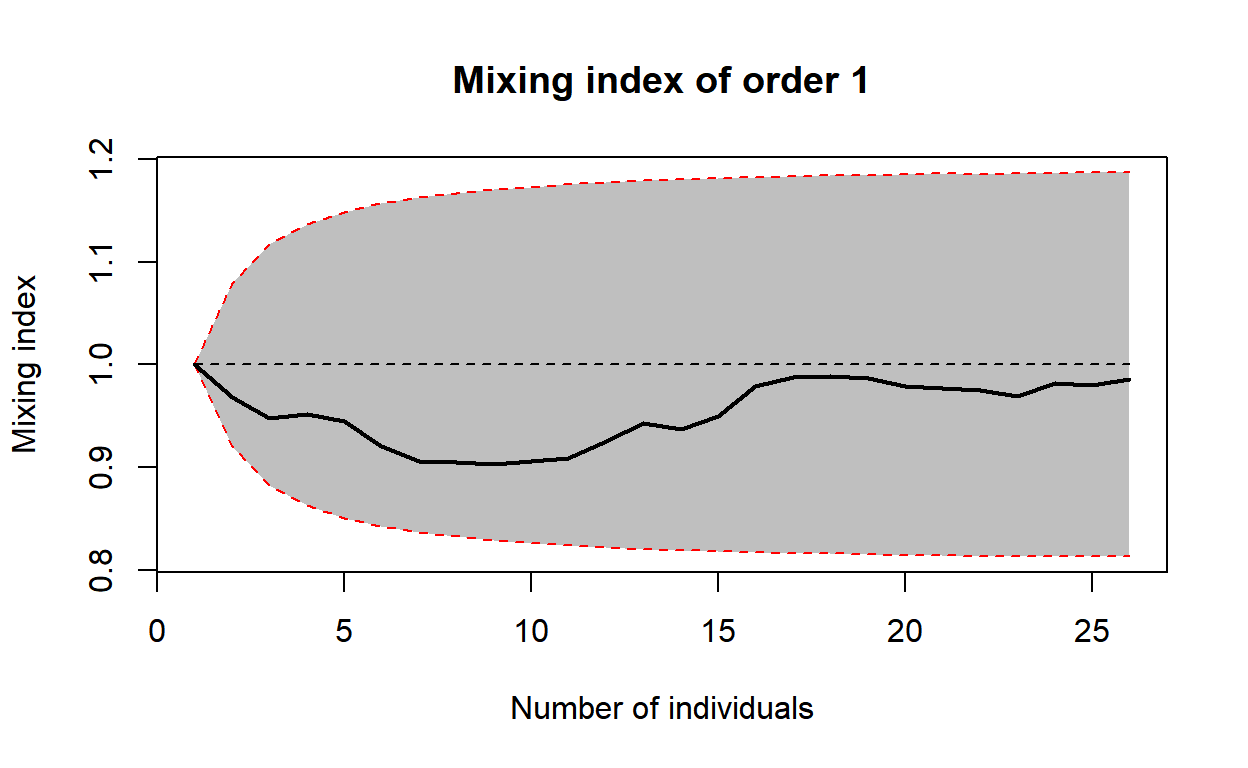
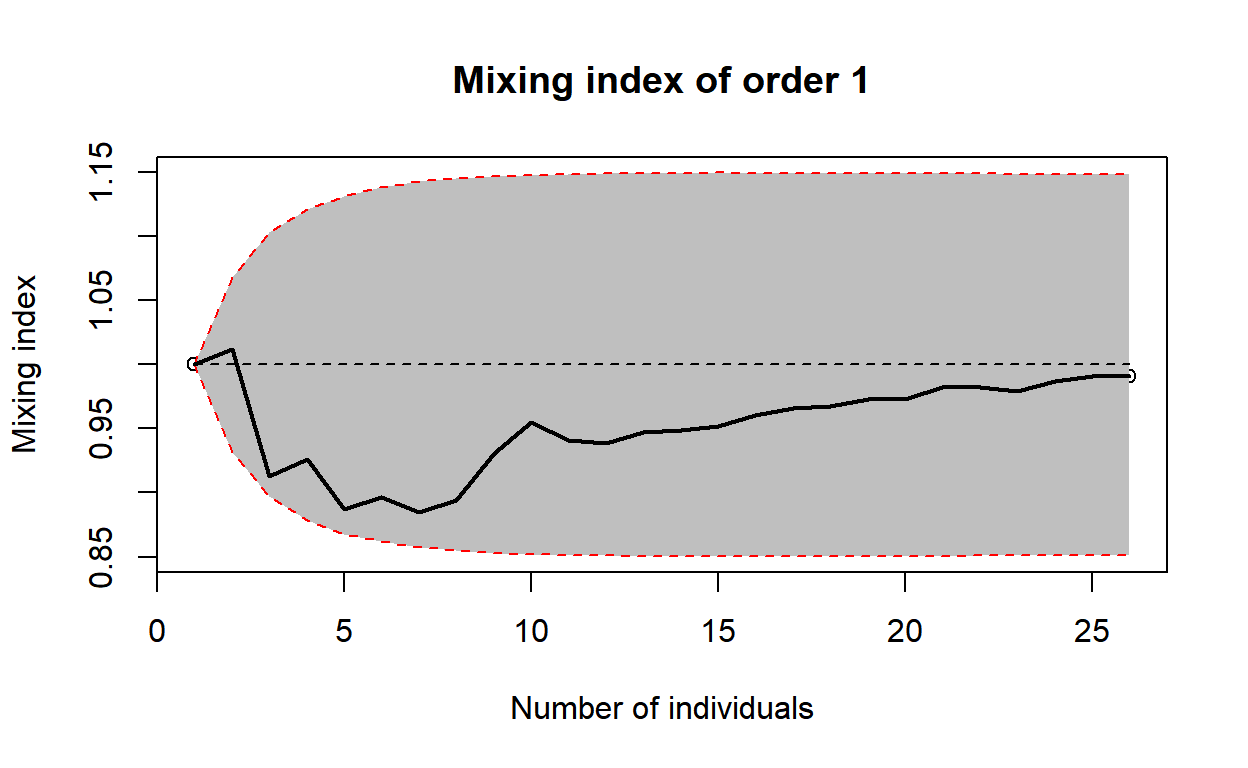
v. 0.3-3

diff --git a/docs/rd.html b/docs/rd.html
@@ -6,7 +6,7 @@
 
   
   
-  <title>SpatDiv Documentation</title>
+  <title>SpatDiv</title>
 
     <script src="rd_files/jquery-1.11.3/jquery.min.js"></script>
   <link href="rd_files/bootstrap-3.3.2/css/bootstrap.min.css" rel="stylesheet" />
@@ -45,7 +45,7 @@
           <span class="icon-bar"></span>
         </button>
                 <a href="index.html" class="navbar-brand page-scroll">
-        SpatDiv Documentation - Spatially Explicit Measures of Diversity
+        SpatDiv - Spatially Explicit Measures of Diversity
         </a>
       </div>
             <nav class="collapse navbar-collapse" role="navigation">
@@ -57,7 +57,7 @@
 <a href='rd.html'>Package Ref</a>
 </li>
 <li>
-<a href='https://github.com/ericmarcon/SpatDiv'>Github <i class='fa fa-github'></i></a>
+<a href='https://github.com/ericmarcon/SpatDiv'>Github<i class='fa fa-github'></i></a>
 </li>
         </ul>
       </nav>
@@ -110,7 +110,7 @@ Spatially Explicit Measures of Diversity
 <strong>Authors:</strong> <a href="mailto:eric.marcon@ecofog.gf">Eric Marcon</a> [aut, cre]
 </p>
 <p>
-<strong>Version:</strong> 0.3-0
+<strong>Version:</strong> 0.3-2
 </p>
 <p>
 <strong>License:</strong> GNU General Public License
@@ -125,13 +125,13 @@ Measures of diversity of spatialized communities, that can be considered as gene
 Depends
 </h4>
 <p>
-R (&gt;= 3.3.0), entropart, Rcpp (&gt;= 0.12.14)
+R (&gt;= 3.3.0), Rcpp (&gt;= 0.12.14), entropart, ggplot2
 </p>
 <h4>
 Imports
 </h4>
 <p>
-automap, dbmss, iNEXT, parallel, RcppParallel, sp, spatstat
+automap, dbmss, graphics, iNEXT, parallel, RcppParallel, sp, spatstat, stats, utils
 </p>
 <h4>
 Suggests
@@ -349,6 +349,11 @@ accum &lt;- EntAccum(spCommunity, q.seq=1)</code></pre>
 <pre><code>## ===========================================================================</code></pre>
 <pre class="r"><code>plot(accum, q=1)</code></pre>
 <p><img src="rd_files/figure-html/EntAccum_id_3-1.png" width="624" /></p>
+<pre class="r"><code># along distance
+accumR &lt;- EntAccum(spCommunity, q.seq=1, r.seq=seq(0, .5, .05))</code></pre>
+<pre><code>## ===========================================================================</code></pre>
+<pre class="r"><code>plot(accumR, q=1)</code></pre>
+<p><img src="rd_files/figure-html/EntAccum_id_3-2.png" width="624" /></p>
 </div>
 <div id="mixing" class="section level2">
 <h2>Mixing</h2>
@@ -551,7 +556,13 @@ The color of the borders of the confidence envelope.
 <h4>
 Examples
 </h4>
-<pre class="r"><code>#TODO</code></pre>
+<pre class="r"><code># Generate a random community
+spCommunity &lt;- rSpCommunity(1, size=50, S=3)
+# Calculate mixing indices of order 0 and 1
+accum &lt;- Mixing(spCommunity, q.seq=c(0,1))</code></pre>
+<pre><code>## ======================================================================================================================================================</code></pre>
+<pre class="r"><code>plot(accum, q=0)</code></pre>
+<p><img src="rd_files/figure-html/plot.Accumulation_id_5-1.png" width="624" /></p>
 </div>
 </div>
 <div id="maps" class="section level1">
@@ -869,7 +880,7 @@ Details
 Tsallis (HCDT) Entropy of a vector of individuals
 </h3>
 <p class="rd-p">
-Calculates the HCDT, also known as Tsallis entropy of order <span class="math inline"><em>q</em></span> of a probability vector.
+Calculates the HCDT, also known as Tsallis entropy of order <span class="math inline"><em>q</em></span> of a vector of individuals.
 </p>
 <h4>
 Usage
@@ -927,7 +938,10 @@ Tsallis (Havrda and Charvat, 1967; Daroczy, 1970; Tsallis, 1988) generalized ent
 <h4>
 Examples
 </h4>
-<pre class="r"><code>#TODO</code></pre>
+<pre class="r"><code>SpeciesList &lt;- as.character(Paracou6$marks$PointType)
+Tsallis(SpeciesList)</code></pre>
+<pre><code>## ChaoWangJost 
+##     4.678361</code></pre>
 </div>
 <div id="tsallis.factor" class="section level2">
 <h2>Tsallis.factor</h2>
@@ -936,7 +950,7 @@ Examples
 Tsallis (HCDT) Entropy of a vector of individuals
 </h3>
 <p class="rd-p">
-Calculates the HCDT, also known as Tsallis entropy of order <span class="math inline"><em>q</em></span> of a probability vector.
+Calculates the HCDT, also known as Tsallis entropy of order <span class="math inline"><em>q</em></span> of a vector of individuals
 </p>
 <h4>
 Usage
@@ -994,7 +1008,9 @@ Tsallis (Havrda and Charvat, 1967; Daroczy, 1970; Tsallis, 1988) generalized ent
 <h4>
 Examples
 </h4>
-<pre class="r"><code>#TODO</code></pre>
+<pre class="r"><code>Tsallis(Paracou6$marks$PointType)</code></pre>
+<pre><code>## ChaoWangJost 
+##     4.678361</code></pre>
 </div>
 <div id="tsallis.wmppp" class="section level2">
 <h2>Tsallis.wmppp</h2>
@@ -1003,7 +1019,7 @@ Examples
 Tsallis (HCDT) Entropy of a spatialized community
 </h3>
 <p class="rd-p">
-Calculates the HCDT, also known as Tsallis entropy of order <span class="math inline"><em>q</em></span> of a probability vector.
+Calculates the HCDT, also known as Tsallis entropy of order <span class="math inline"><em>q</em></span> of a spatialized community.
 </p>
 <h4>
 Usage
@@ -1061,7 +1077,9 @@ Tsallis (Havrda and Charvat, 1967; Daroczy, 1970; Tsallis, 1988) generalized ent
 <h4>
 Examples
 </h4>
-<pre class="r"><code>#TODO</code></pre>
+<pre class="r"><code>Tsallis(Paracou6)</code></pre>
+<pre><code>## ChaoWangJost 
+##     4.678361</code></pre>
 </div>
 <div id="diversity.character" class="section level2">
 <h2>Diversity.character</h2>
@@ -1122,7 +1140,10 @@ A named number equal to the calculated diversity. The name is that of the bias c
 <h4>
 Examples
 </h4>
-<pre class="r"><code>#TODO</code></pre>
+<pre class="r"><code>SpeciesList &lt;- as.character(Paracou6$marks$PointType)
+Diversity(SpeciesList)</code></pre>
+<pre><code>## ChaoWangJost 
+##     107.5936</code></pre>
 </div>
 <div id="diversity.factor" class="section level2">
 <h2>Diversity.factor</h2>
@@ -1183,7 +1204,9 @@ A named number equal to the calculated diversity. The name is that of the bias c
 <h4>
 Examples
 </h4>
-<pre class="r"><code>#TODO</code></pre>
+<pre class="r"><code>Diversity(Paracou6$marks$PointType)</code></pre>
+<pre><code>## ChaoWangJost 
+##     107.5936</code></pre>
 </div>
 <div id="diversity.wmppp" class="section level2">
 <h2>Diversity.wmppp</h2>
@@ -1244,7 +1267,9 @@ A named number equal to the calculated diversity. The name is that of the bias c
 <h4>
 Examples
 </h4>
-<pre class="r"><code>#TODO</code></pre>
+<pre class="r"><code>Diversity(Paracou6)</code></pre>
+<pre><code>## ChaoWangJost 
+##     107.5936</code></pre>
 </div>
 </div>
 <div id="utilities" class="section level1">

diff --git a/docs/index.html b/docs/index.html
@@ -57,7 +57,7 @@
 <a href='rd.html'>Package Ref</a>
 </li>
 <li>
-<a href='https://github.com/EricMarcon/SpatDiv'>Github <i class='fa fa-github'></i></a>
+<a href='https://github.com/EricMarcon/SpatDiv'>Github<i class='fa fa-github'></i></a>
 </li>
         </ul>
       </nav>

diff --git a/NEWS.md b/NEWS.md
@@ -1,8 +1,18 @@
+# SpatDiv 0.3-3
+
+## New features
+
+* `Paracou6` datasets.
+
+* Examples.
+
+
 # SpatDiv 0.3-2
 
 ## New features
 
 * `Richness`, `Shannon` and `Simpson` methods.
+
 
 # SpatDiv 0.3-1
 
